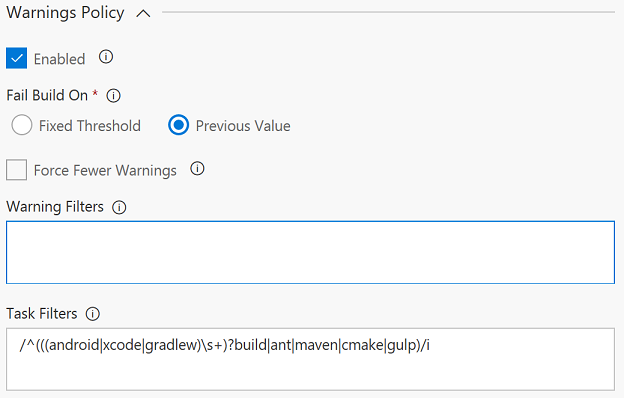
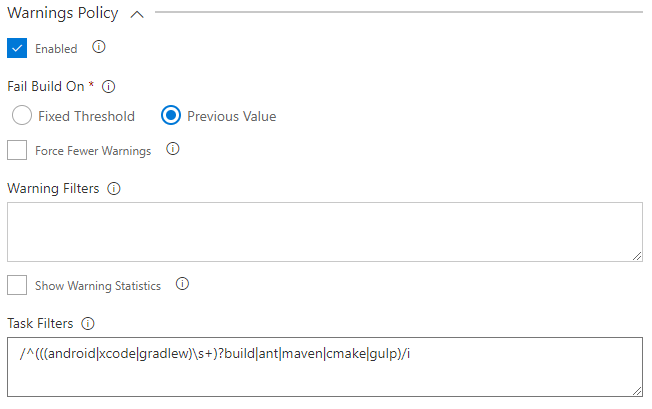
Update docs to v2.5.0

Changed region(s): [[0.0, 0.0905, 1.0, 0.7236], [0.0, 0.7538, 1.0, 0.995], [0.0, 0.0, 0.2436, 0.0603]]

diff --git a/BuildQualityChecks/en-US/WarningsPolicy.md b/BuildQualityChecks/en-US/WarningsPolicy.md
@@ -12,7 +12,8 @@ if the number of warnings exceeds a specific value or increases between builds.
 ### Limitations and Special Cases
 - **Warnings must be build issues**  
   The *Warnings Policy* only counts warnings that have been logged as build issues. If a task writes warning messages to
-  its output but does not log them as build issues in the build system, the policy is not able to see them. 
+  its output but does not log them as build issues in the build system, the policy does not automatically pick those warnings up.
+  You may use *Warning Filters* (see below) to add those warnings to the policy. 
 
 ### Parameters of the Build Warnings Policy
 
@@ -51,9 +52,18 @@ if the number of warnings exceeds a specific value or increases between builds.
   - Log output: `StyleCop found [28448] violations warnings across [82] projects`
   - Filter value: `/\[(\d+)\]\s+violations/i`
 
-  **Note:** Regular expressions must use the JavaScript RegExp syntax. Click [here](http://www.regular-expressions.info/javascript.html)
-  for more information.
+  **Note:** Regular expressions must use the [JavaScript RegExp](http://www.regular-expressions.info/javascript.html) syntax.
 
+- **Show Warning Statistics:** Enable this options to generate statistical information about warning changes. When enabled the policy not
+  only shows the total number of warnings but also the changes in number of warnings per code file. To keep statistics short, only files
+  with actual changes in the number of warnings are listed. If you combine this option with *Warning Filters*, the filters will be applied
+  first and only matching warnings will appear in the warning statistics.
+  
+  ![Warning Statistics](../assets/WarningStatisticsResult.png "Policy Result with Warning Statistics")
+  
+  **Note:** Statistics currently only work for MSBuild builds (i.e., the *Visual Studio Build* and *MSBuild* tasks). If you need support
+  for additional tasks, please let us know and preferably send us a sample log of the corresponding build task to <a href='&#109;&#97;&#105;&#108;&#116;&#111;&#58;&#112;&#115;&#103;&#101;&#114;&#101;&#120;&#116;&#115;&#117;&#112;&#112;&#111;&#114;&#116;&#64;&#109;&#105;&#99;&#114;&#111;&#115;&#111;&#102;&#116;&#46;&#99;&#111;&#109;'>&#112;&#115;&#103;&#101;&#114;&#101;&#120;&#116;&#115;&#117;&#112;&#112;&#111;&#114;&#116;&#64;&#109;&#105;&#99;&#114;&#111;&#115;&#111;&#102;&#116;&#46;&#99;&#111;&#109;</a>.
+  
 - **Task Filters:** Since the build system can run all kinds of tasks during the build process and any of these tasks can create
   warnings, the *Warnings Policy* needs to know, which tasks it should look at and which to ignore. *Task Filters* takes a list of
   regular expressions (one per line). The policy will only look at build tasks that match one of the task filters. The matching is done by
@@ -62,5 +72,4 @@ if the number of warnings exceeds a specific value or increases between builds.
   `/^(((android|xcode|gradlew)\\s+)?build|ant|maven|cmake|gulp)/i` matches most of the standard build tasks in Team Foundation Server/Visual
   Studio Team Services.
 
-  **Note:** Regular expressions must use the JavaScript RegExp syntax. Click [here](http://www.regular-expressions.info/javascript.html)
-  for more information.
+  **Note:** Regular expressions must use the [JavaScript RegExp](http://www.regular-expressions.info/javascript.html) syntax.

diff --git a/BuildQualityChecks/en-US/overview.md b/BuildQualityChecks/en-US/overview.md
@@ -45,7 +45,7 @@ last build that ran against the same branch as the current build. This behavior 
 
 ![Baseline Parameters](../assets/Baseline.png "Choosing baseline build definition and branch")
 
-- **Include Partially Succeeded Builds:** Uncheck this option, if policy values should only be compared to successful baseline builds.
+- **Include Partially Succeeded Builds:** Uncheck this option if policy values should only be compared to successful baseline builds.
   In most cases, including partially succeeded builds is the best option, so you can use the default setting.
 
 - **Build Definition:** Select the build definition that should be used to search for the baseline build. If you do not set a value,
@@ -80,10 +80,10 @@ last build that ran against the same branch as the current build. This behavior 
 #### Reporting Options
 If you are using multiple *Build Quality Checks* tasks within the same build, you may use the **Run Title** parameter to specify a title that
 is associated with a specific instance of the task. This will help distinguishing between the task results in the summary section. The run
-title is added to the subsection header in the summary in the format <Build Job Name> - <Run Title>.
+title is added to the subsection header in the summary in the format \<Build Job Name\> - \<Run Title\>.
 
 #### Advanced
-- **Disable NodeJS certificate check:** Check this option, if your Team Foundation Server is using a self-signed or corporate SSL certificate. The option
+- **Disable NodeJS certificate check:** Check this option if your Team Foundation Server is using a self-signed or corporate SSL certificate. The option
   disables the certificate chain validation of NodeJS. Please read [here](https://github.com/almtcger/VstsExtensions/blob/master/BuildQualityChecks/en-US/NodeJSAndCertificates.md) for details.
 
 ### Common Usage Scenarios

diff --git a/BuildQualityChecks/en-US/changeNotes.md b/BuildQualityChecks/en-US/changeNotes.md
@@ -2,6 +2,9 @@
 
 # Build Quality Checks - Change Notes
 
+#### 2.5.0
+- Added support for warning statistics.
+
 #### 2.4.2
 - Added support for disabling NodeJS certificate check for the task. See [advanced settings](./overview.md#advanced) for more
   information.
@@ -47,7 +50,7 @@
 - You can now choose a baseline build definition and branch for the comparison of policy values. See
   [Baseline Task Parameters](https://github.com/almtcger/VstsExtensions/blob/master/BuildQualityChecks/en-US/overview.md#baseline)
   for more information.
-- Policies will now pass by default, if the previous build is not available.
+- Policies will now pass by default if the previous build is not available.
 - Module filters have been removed from the code coverage policy. Please use run settings (or similar settings specific to your test
   and code coverage tools) to filter code coverage.
 
